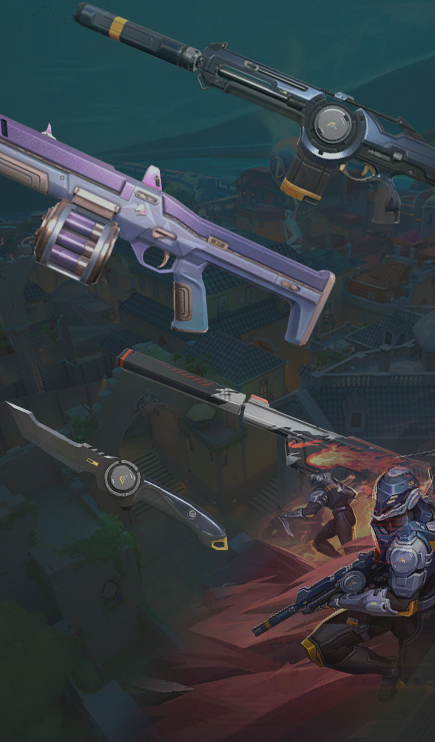
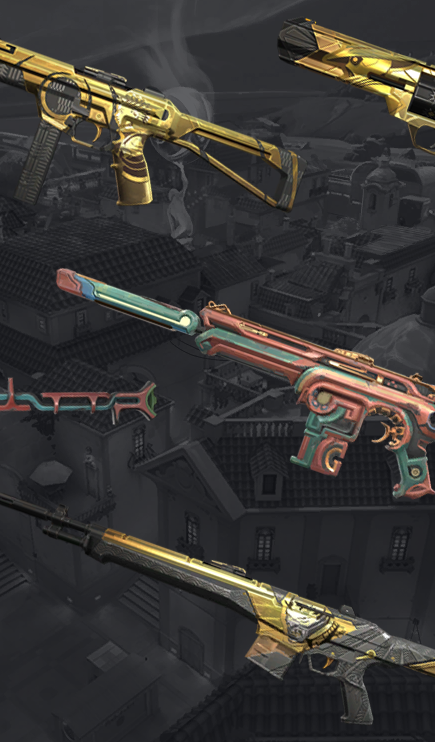
EP5ACT2 BP

diff --git a/Assist/MVVM/View/Progression/Progression.xaml b/Assist/MVVM/View/Progression/Progression.xaml
@@ -38,7 +38,7 @@
                                     <DockPanel>
                                         <StackPanel VerticalAlignment="Bottom">
                                             <Label  VerticalAlignment="Bottom"
-                                                    Content="EP5 : ACT1"
+                                                    Content="EP5 : ACT2"
                                                     Foreground="White"
                                                     Padding="0" 
                                                     FontFamily="{StaticResource WorkSans}"
@@ -67,6 +67,71 @@
                                             </Label>
                                         </StackPanel>
                                         
+                                    </DockPanel>
+                                </Grid>
+                            </Border>
+                        </ControlTemplate>
+                    </Setter.Value>
+                </Setter>
+                <Style.Triggers>
+                    <Trigger Property="IsMouseOver" Value="True">
+                        <Setter Property="Cursor" Value="Hand"/>
+                        <Setter Property="Background" Value="{StaticResource AssistNavigationButton_SelectedFill}"/>
+                        <Setter Property="BorderBrush" Value="{StaticResource AssistNavigationButton_SelectedOutline}"></Setter>
+                        <Setter Property="Effect">
+                            <Setter.Value>
+                                <DropShadowEffect></DropShadowEffect>
+                            </Setter.Value>
+                        </Setter>
+                    </Trigger>
+                </Style.Triggers>
+            </Style>
+
+            <Style x:Key="BattlepassEP5ACT1" TargetType="{x:Type Button}">
+                <Setter Property="Background" Value="{StaticResource AssistBackgroundLight}"/>
+                <Setter Property="BorderBrush" Value="{StaticResource AssistNavigationButton_NotSelectedOutline}"/>
+                <Setter Property="BorderThickness" Value="1"/>
+                <Setter Property="Template">
+                    <Setter.Value>
+                        <ControlTemplate TargetType="{x:Type Button}">
+                            <Border CornerRadius="0" BorderThickness="3" BorderBrush="{TemplateBinding BorderBrush}" Background="{TemplateBinding Background}">
+                                <Grid>
+
+                                    <Grid>
+                                        <Image Source="../../../Resources/Other/Assist_BattlepassEP5ACT1.png" Stretch="UniformToFill"/>
+                                    </Grid>
+                                    <DockPanel>
+                                        <StackPanel VerticalAlignment="Bottom">
+                                            <Label  VerticalAlignment="Bottom"
+                                                    Content="EP5 : ACT1"
+                                                    Foreground="White"
+                                                    Padding="0" 
+                                                    FontFamily="{StaticResource WorkSans}"
+                                                    FontSize="12" 
+                                                    FontStyle="Normal" 
+                                                    FontWeight="Medium" 
+                                                    HorizontalAlignment="Center">
+                                                <Label.Effect>
+                                                    <DropShadowEffect/>
+                                                </Label.Effect>
+                                            </Label>
+
+                                            <Label DockPanel.Dock="Bottom" 
+                                                   VerticalAlignment="Bottom"
+                                                   Content="{TemplateBinding Tag}"
+                                                   Foreground="White"
+                                                   FontFamily="{StaticResource WorkSans}"
+                                                   FontSize="36"
+                                                   Padding="0"
+                                                   FontStyle="Normal"
+                                                   FontWeight="Bold"
+                                                   HorizontalAlignment="Center">
+                                                <Label.Effect>
+                                                    <DropShadowEffect/>
+                                                </Label.Effect>
+                                            </Label>
+                                        </StackPanel>
+
                                     </DockPanel>
                                 </Grid>
                             </Border>
@@ -194,7 +259,10 @@
                     <RowDefinition Height="Auto"/>
                     <RowDefinition/>
                 </Grid.RowDefinitions>
-                <Button Style="{StaticResource BattlepassCurrentBtn}" x:Name="BattlepassButton" Width="290" Height="395" HorizontalAlignment="Left" Tag="{x:Static lang:Lang.Progression_Battlepass}" Click="BattlepassCurrentButton_Click"/>
+               <StackPanel Orientation="Horizontal">
+                   <Button Style="{StaticResource BattlepassCurrentBtn}" x:Name="BattlepassButton" Width="290" Height="395" HorizontalAlignment="Left" Tag="{x:Static lang:Lang.Progression_Battlepass}" Click="BattlepassCurrentButton_Click" Margin="5,0"/>
+                    <Button Style="{StaticResource BattlepassEP5ACT1}" x:Name="BattlepassEP5ACT1Button" Width="290" Height="395" HorizontalAlignment="Left" Tag="{x:Static lang:Lang.Progression_Battlepass}" Click="BattlepassEP5ACT1Button_OnClickButton_Click" Margin="5,0"/>
+                </StackPanel>
                 <Button Grid.Row="1" Style="{StaticResource BattlepassEP4ACT3Btn}" x:Name="BattlepassEP4ACT3Button" Width="290" Height="100"  HorizontalAlignment="Left" Tag="{x:Static lang:Lang.Progression_Battlepass}" Click="BattlepassEP4ACT3Button_OnClickButton_Click"/>
             </Grid>
 

diff --git a/Assist/MVVM/View/Progression/Progression.xaml.cs b/Assist/MVVM/View/Progression/Progression.xaml.cs
@@ -30,6 +30,10 @@ namespace Assist.MVVM.View.Progression
         {
             AssistMainWindow.Current.ContentFrame.Navigate(new ProgressionBattlepass());
         }
+        private void BattlepassEP5ACT1Button_OnClickButton_Click(object sender, RoutedEventArgs e)
+        {
+            AssistMainWindow.Current.ContentFrame.Navigate(new ProgressionBattlepass("99ac9283-4dd3-5248-2e01-8baf778affb4"));
+        }
 
         private void BattlepassEP4ACT3Button_OnClickButton_Click(object sender, RoutedEventArgs e)
         {

diff --git a/Assist/Services/AssistApiService.cs b/Assist/Services/AssistApiService.cs
@@ -20,7 +20,7 @@ public class AssistApiService
 {
 
     public const string BaseUrl = "https://api.assistapp.dev";
-    public const string BattlepassId = "99ac9283-4dd3-5248-2e01-8baf778affb4";
+    public const string BattlepassId = "2b3a941d-4b85-a0df-5beb-8897224d290a";
 
     private const string FailedNewsArticleImageUrl =
         "https://i.kym-cdn.com/entries/icons/original/000/037/349/Screenshot_14.jpg";
